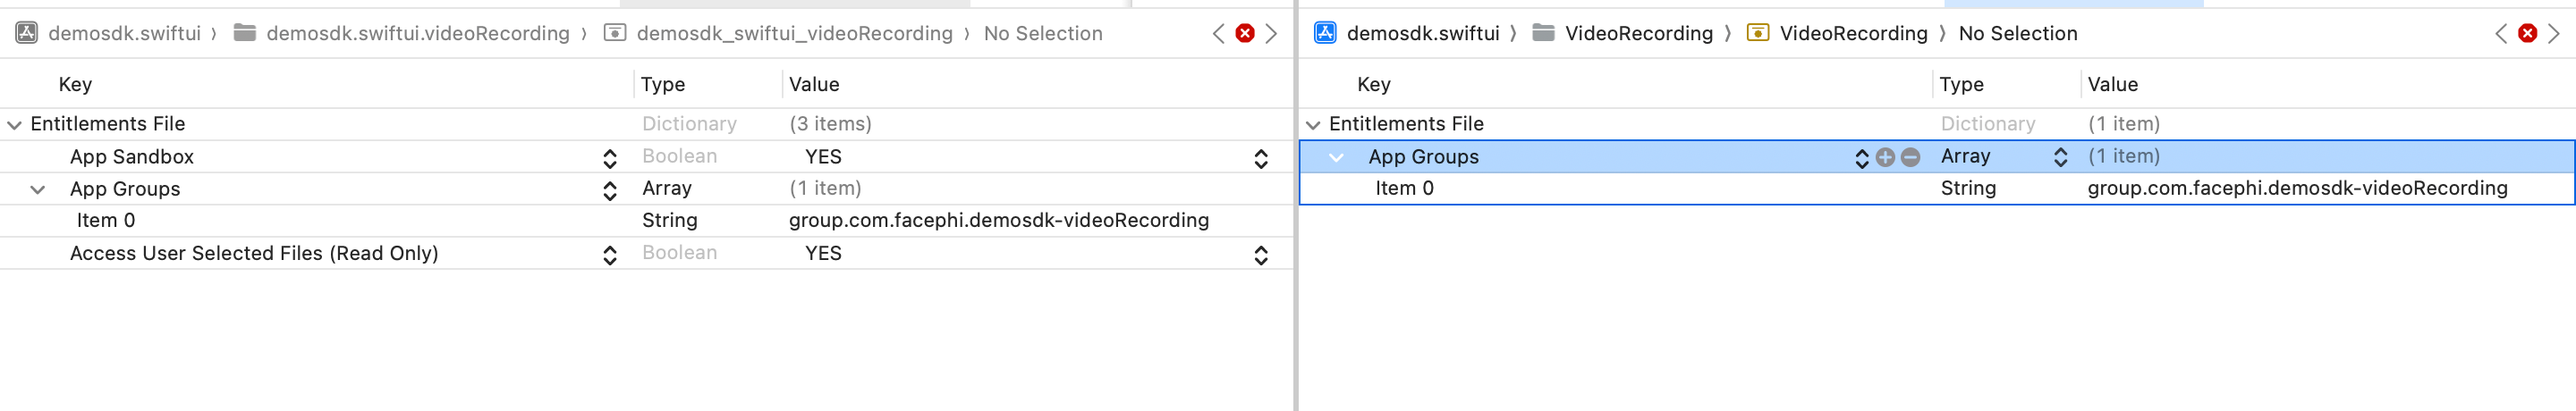
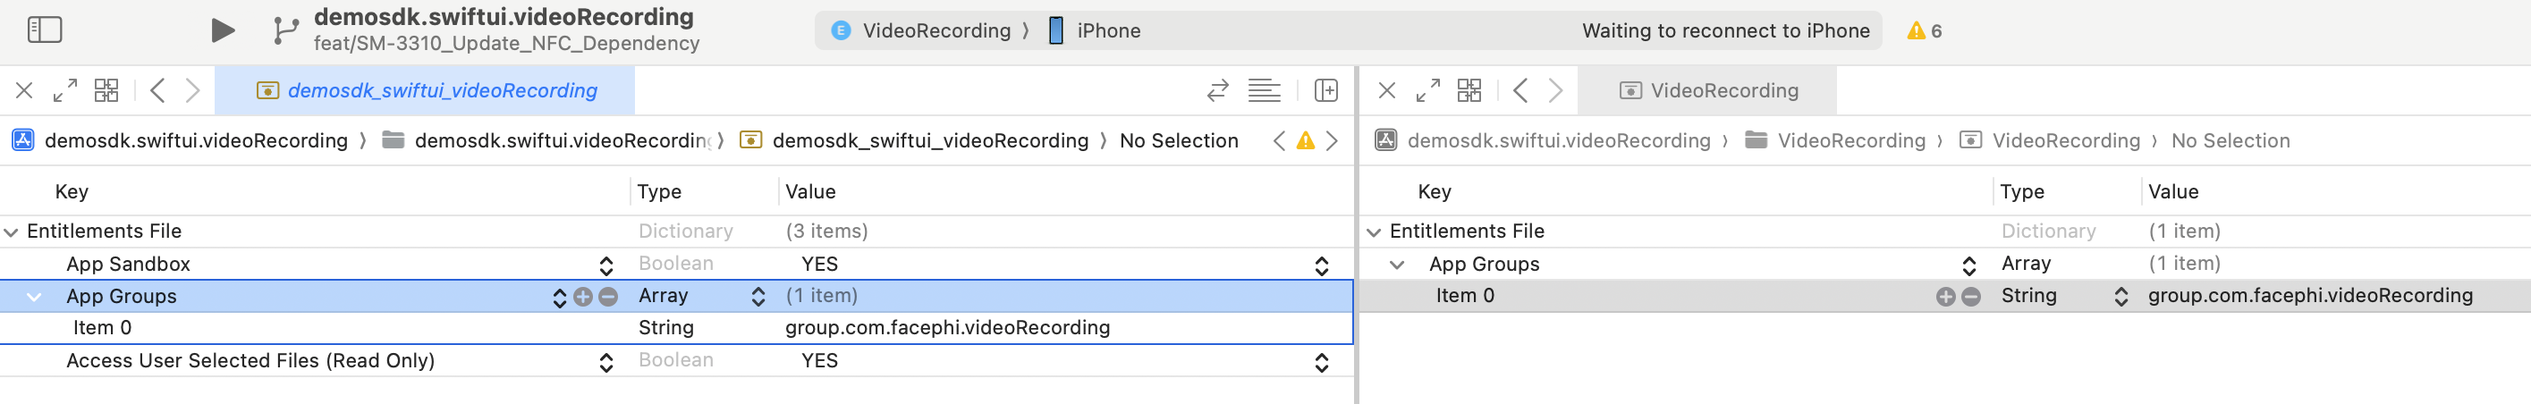
[SM-3284] feat: Updated and refactorized videoRecording documentation

Changed region(s): [[0.0, 0.1549, 1.0, 0.9602], [0.0, 0.0, 0.8707, 0.1239], [0.964, 0.0619, 0.9951, 0.0929]]

diff --git a/docs/ios/Video_Recording_Component.md b/docs/ios/Video_Recording_Component.md
@@ -1,4 +1,4 @@
-# Video recording component
+# Video Recording Component
 
 ## 0. Mobile SDK base requirements
 
@@ -65,21 +65,47 @@ This generates the following structure:
 
 ![Image](/iOS/videoRecording-004.png)
 
-Where SampleHandler is the main class of the extension.
+By default, a file called `SampleHandler` is created. This file contains the main class of the extension.
+
+To make use of Facephi's screen sharing functionality we should modify the key `NSExtensionPrincipalClass` and set it to:
+
+```
+videoRecordingComponent.VideoRecordingHandler
+```
+
+![Image](/iOS/videoRecording-2.1.InfoPList.png)
 
 **NOTE: It is important to keep in mind that the version number (MARKETING_VERSION) and the project version number must always be the same in both targets:**
 
 ![Image](/iOS/videoRecording-005.png)
 
-### 2.2 Creating the shared App Group
+### 2.2 Setting the NSMicrophoneUsageDescription
 
-If we don't already have it in our app, we can create a new Capability of type App Group.
+The Video Recording functionality can also share the microphone's input. For that reason, we need to add the key:
+
+```
+NSMicrophoneUsageDescription
+```
+
+To our target's Info.plist, detailing why do we use this functionality.
+
+
+### 2.3 Creating the shared App Group
+
+Now we need to create a new App Group's Capability.
 
 This will serve to create the shared container between our extension and the application target.
 
 ![Image](/iOS/videoRecording-006.png)
 
-We assign a name to the new App Group after clicking on the + icon:
+After clicking on the + icon.
+
+**It's important to set the app group's value to:**
+
+```
+group.com.facephi.videoRecording
+```
+
 
 ![Image](/iOS/videoRecording-007.png)
 
@@ -91,7 +117,7 @@ XCode will automatically generate or update the entitlement files involved to ad
 
 ![Image](/iOS/videoRecording-009.png)
 
-### 2.3 Dependencies required for integration
+### 2.4 Dependencies required for integration
 
 <blockquote>
      <p>
@@ -101,7 +127,7 @@ To avoid conflicts and compatibility problems, if you want to install the compon
 
 Currently FacePhi libraries are distributed remotely through different dependency managers.
 
-### 2.3.1 Cocoapods
+#### 2.4.1 Cocoapods
 
 The **mandatory** dependencies that must have been previously installed (adding them to the project's Podfile file) are:
 
@@ -136,7 +162,7 @@ end
 
 NOTE: You have to be careful to put the extension target outside the application target. Failure to do so would cause the application pods to also be compiled into the extension, resulting in collateral problems.
 
-#### 2.3.2 SPM
+#### 2.4.2 SPM
 
 We add our dependency to the project and assign it to the VideoRecording target:
 
@@ -145,123 +171,6 @@ We add our dependency to the project and assign it to the VideoRecording target:
 We must then also add it to the target of the app in General → Framework, Libraries and Embedded Content:
 
 ![Image](/iOS/videoRecording-011.png)
-
-### 2.4 Implement the extension
-
-At this point we must develop the functionality in our newly created SampleHandler.swift. To do this, we copy/replace the following code:
-
-```
-class SampleHandler: RPBroadcastSampleHandler {
-    var bufferCopy: CMSampleBuffer?
-    var lastSendTs = Int64(Date().timeIntervalSince1970 * 1000)
-    var timer: Timer?
-    // Shared info between app and extension
-    private let kAppGroupName = "group.com.facephi.sdk.demo" // SET YOUR APP_GROUP_NAME, you can get it from your entitlements' file
-    override func broadcastStarted(withSetupInfo setupInfo: [String: NSObject]?) {
-        // Load shared info from app
-        let sharedContainer = UserDefaults(suiteName: kAppGroupName)!
-        let uid = sharedContainer.string(forKey: "UID")!
-        let token = sharedContainer.string(forKey: "TOKEN")!
-        let channel = sharedContainer.string(forKey: "CHANNEL")!
-        // Passing data to app
-        sharedContainer.setValue(true, forKey: "BROADCASTSTARTED")
-        sharedContainer.synchronize()
-        print("uid: \(uid)")
-        print("token: \(token)")
-        print("channelName: \(channel)")
-        // In-App Screen Capture
-        AgoraUploader.startBroadcast(uid: uid, token: token, channel: channel)
-        AgoraUploader.sharedAgoraEngine.delegate = self
-        DispatchQueue.main.async {
-            self.timer = Timer.scheduledTimer(withTimeInterval: 0.1, repeats: true) { [weak self] (_: Timer) in
-                guard let weakSelf = self else { return }
-                let elapse = Int64(Date().timeIntervalSince1970 * 1000) - weakSelf.lastSendTs
-                print("elapse: \(elapse)")
-                // if frame stopped sending for too long time, resend the last frame
-                // to avoid stream being frozen when viewed from remote
-                if elapse > 300 {
-                    if let buffer = weakSelf.bufferCopy {
-                        weakSelf.processSampleBuffer(buffer, with: .video)
-                    }
-                }
-            }
-        }
-    }
-    override func broadcastPaused() {
-        // User has requested to pause the broadcast. Samples will stop being delivered.
-    }
-    override func broadcastResumed() {
-        // User has requested to resume the broadcast. Samples delivery will resume.
-    }
-    override func broadcastFinished() {
-        timer?.invalidate()
-        timer = nil
-        AgoraUploader.stopBroadcast()
-    }
-    override func processSampleBuffer(_ sampleBuffer: CMSampleBuffer, with sampleBufferType: RPSampleBufferType) {
-        DispatchQueue.main.async { [weak self] in
-            switch sampleBufferType {
-            case .video:
-                if let weakSelf = self {
-                    weakSelf.bufferCopy = sampleBuffer
-                    weakSelf.lastSendTs = Int64(Date().timeIntervalSince1970 * 1000)
-                }
-                AgoraUploader.sendVideoBuffer(sampleBuffer)
-            @unknown default:
-                break
-            }
-        }
-    }
-}
-```
-
-**NOTE: Make sure you enter the correct App Group Name on line 6. In our example it was group.com.facephi.demosdk-videoRecording.**
-
-You can optionally listen to the various events that occur when the user interacts with the recording functionality by making the SampleHandler class extend `AgoraRtcEngineDelegate`:
-
-```
-import AgoraRtcKit
-
-extension SampleHandler: AgoraRtcEngineDelegate {
-    /// callback when warning occured for agora sdk, warning can usually be ignored, still it's nice to check out
-    /// what is happening
-    /// Warning code description can be found at:
-    /// en: https://docs.agora.io/en/Voice/API%20Reference/oc/Constants/AgoraWarningCode.html
-    /// cn: https://docs.agora.io/cn/Voice/API%20Reference/oc/Constants/AgoraWarningCode.html
-    /// @param warningCode warning code of the problem
-    func rtcEngine(_ engine: AgoraRtcEngineKit, didOccurWarning warningCode: AgoraWarningCode) {}
-    
-    /// callback when error occured for agora sdk, you are recommended to display the error descriptions on demand
-    /// to let user know something wrong is happening
-    /// Error code description can be found at:
-    /// en: https://docs.agora.io/en/Voice/API%20Reference/oc/Constants/AgoraErrorCode.html
-    /// cn: https://docs.agora.io/cn/Voice/API%20Reference/oc/Constants/AgoraErrorCode.html
-    /// @param errorCode error code of the problem
-    func rtcEngine(_ engine: AgoraRtcEngineKit, didOccurError errorCode: AgoraErrorCode) {}
-    
-    /// callback when the local user joins a specified channel.
-    /// @param channel
-    /// @param uid uid of local user
-    /// @param elapsed time elapse since current sdk instance join the channel in ms
-    func rtcEngine(_ engine: AgoraRtcEngineKit, didJoinChannel channel: String, withUid uid: UInt, elapsed: Int) {}
-    
-    /// callback when a remote user is joinning the channel, note audience in live broadcast mode will NOT trigger this event
-    /// @param uid uid of remote joined user
-    /// @param elapsed time elapse since current sdk instance join the channel in ms
-    func rtcEngine(_ engine: AgoraRtcEngineKit, didJoinedOfUid uid: UInt, elapsed: Int) {}
-    
-    /// callback when a remote user is leaving the channel, note audience in live broadcast mode will NOT trigger this event
-    /// @param uid uid of remote joined user
-    /// @param reason reason why this user left, note this event may be triggered when the remote user
-    /// become an audience in live broadcasting profile
-    func rtcEngine(_ engine: AgoraRtcEngineKit, didOfflineOfUid uid: UInt, reason: AgoraUserOfflineReason) {
-        // Replace domain's value with your Bundle Identifier
-        let error = NSError(domain: "com.facephi.demosdk-videoRecording", code: 0, userInfo: [NSLocalizedDescriptionKey: NSLocalizedString("Call ended", comment: "")])
-        
-        finishBroadcastWithError(error)
-    }
-}
-```
 
 ---
 
@@ -279,21 +188,51 @@ This command must always be executed. To learn more about how to start a new ope
 
 ## 4. Use of component
 
-Once the component has been started and a new operation has been created (section 3), the SDK components can be launched. There are two ways to launch the component:
+### 4.1 Creating the instance
+
+The functionality is configured and launched with a class called `VideoRecordingController`.
+
+To create an instance we need to use its `init()` method:
+
+```swift
+init(data: VideoRecordingConfigurationData?, extensionName: String?, output: @escaping (SdkResult<String>) -> Void)
+```
+
+- `data`: The configuration object
+- `extensionName`: The name of the `Broadcast Upload Extension` we created.
+- `output`: The callback that is called when the instance's start is resolved (either with success or failure). For this component, the success is called when the connection with the backend is established and the screenshare has started.
+
+### 4.2 Configuring the instance
+
+With the configuration data (*VideoRecordingConfigurationData*) you can also modify:
+
+- **Optional data that is normally included within the license**
+     - **url**: Path to the video socket.
+     - **apiKey**: ApiKey required for connection to the video socket.
+     - **tenantId**: Tenant identifier that refers to the current client, necessary for the connection to the video service.
+     - **extractionTimeout**: How long (milliseconds) will the component wait for the socket before generating a timeout error.
+     - **showDiagnostic**: If an error occurs, the error will be displayed on the screen in addition to being sent with the output.
+
+### 4.3 Launching the component
+
+Once we have set a new operation ([Section 3](#3-start-new-operation)) and have an instance of our controller, we can start it.
+There are two ways to launch it:
 
 - **[NO TRACKING]** This call allows the component's functionality to be launched normally, but **no event will be tracked** to the tracking server:
 
-```java
-let controller = VideoRecordingController(data: VideoRecordingConfigurationData(), appGroupName: "group.com.facephi.demosdk-videoRecording", extensionName: "VideoRecording", output: { _ in })
+```swift
+let controller = VideoRecordingController(data: VideoRecordingConfigurationData(), extensionName: "VideoRecording", output: { _ in })
 SDKController.shared.launchMethod(controller: controller)
 ```
 
 - **[WITH TRACKING]** This call allows the component's functionality to be launched normally, but internal events to the tracking server will be tracked:
 
-```java
-let controller = VideoRecordingController(data: VideoRecordingConfigurationData(), appGroupName: "group.com.facephi.demosdk-videoRecording", extensionName: "VideoRecording", output: { _ in })
+```swift
+let controller = VideoRecordingController(data: VideoRecordingConfigurationData(), extensionName: "VideoRecording", output: { _ in })
 SDKController.shared.launch(controller: controller)
 ```
+
+**Note:**
 
 <blockquote>
      <p>
@@ -302,16 +241,6 @@ The **launch** method should be used **by default**. This method allows you to u
 On the contrary, the **launchMethod** method covers a special case, in which the integrator has tracking installed and activated, but in a given flow within the application they do not want to track information. In that case, this method is used to prevent that information from being sent to the platform.
      </p>
 </blockquote>
-
-In the configuration data (*VideoRecordingConfigurationData*) you can also modify:
-
-- **Optional data that is normally included within the license**
-
-     - **url**: Path to the video socket.
-     - **apiKey**: ApiKey required for connection to the video socket.
-     - **tenantId**: Tenant identifier that refers to the current client, necessary for the connection to the video service.
-     - **extractionTimeout**: How long (milliseconds) will the component wait for the socket before generating a timeout error.
-     - **showDiagnostic**: If an error occurs, the error will be displayed on the screen in addition to being sent with the output.
 
 ## 5. Component customization
 

diff --git a/README.md b/README.md
@@ -1,5 +1,11 @@
 # Facephi
 
+Para ejecutar el proyecto lo primero es instalar los paquetes.
+
+```
+npm install
+```
+
 Iniciar localmente el servicio (http://localhost:3000)
 
 ```

diff --git a/ios_versioned_docs/version-1.5.X/Video_Recording_Component.md b/ios_versioned_docs/version-1.5.X/Video_Recording_Component.md
@@ -1,4 +1,4 @@
-# Video recording component
+# Video Recording Component
 
 ## 0. Mobile SDK base requirements
 

diff --git a/ios_versioned_docs/version-2.0.X/Video_Recording_Component.md b/ios_versioned_docs/version-2.0.X/Video_Recording_Component.md
@@ -1,4 +1,4 @@
-# Video recording component
+# Video Recording Component
 
 ## 0. Mobile SDK base requirements
 
